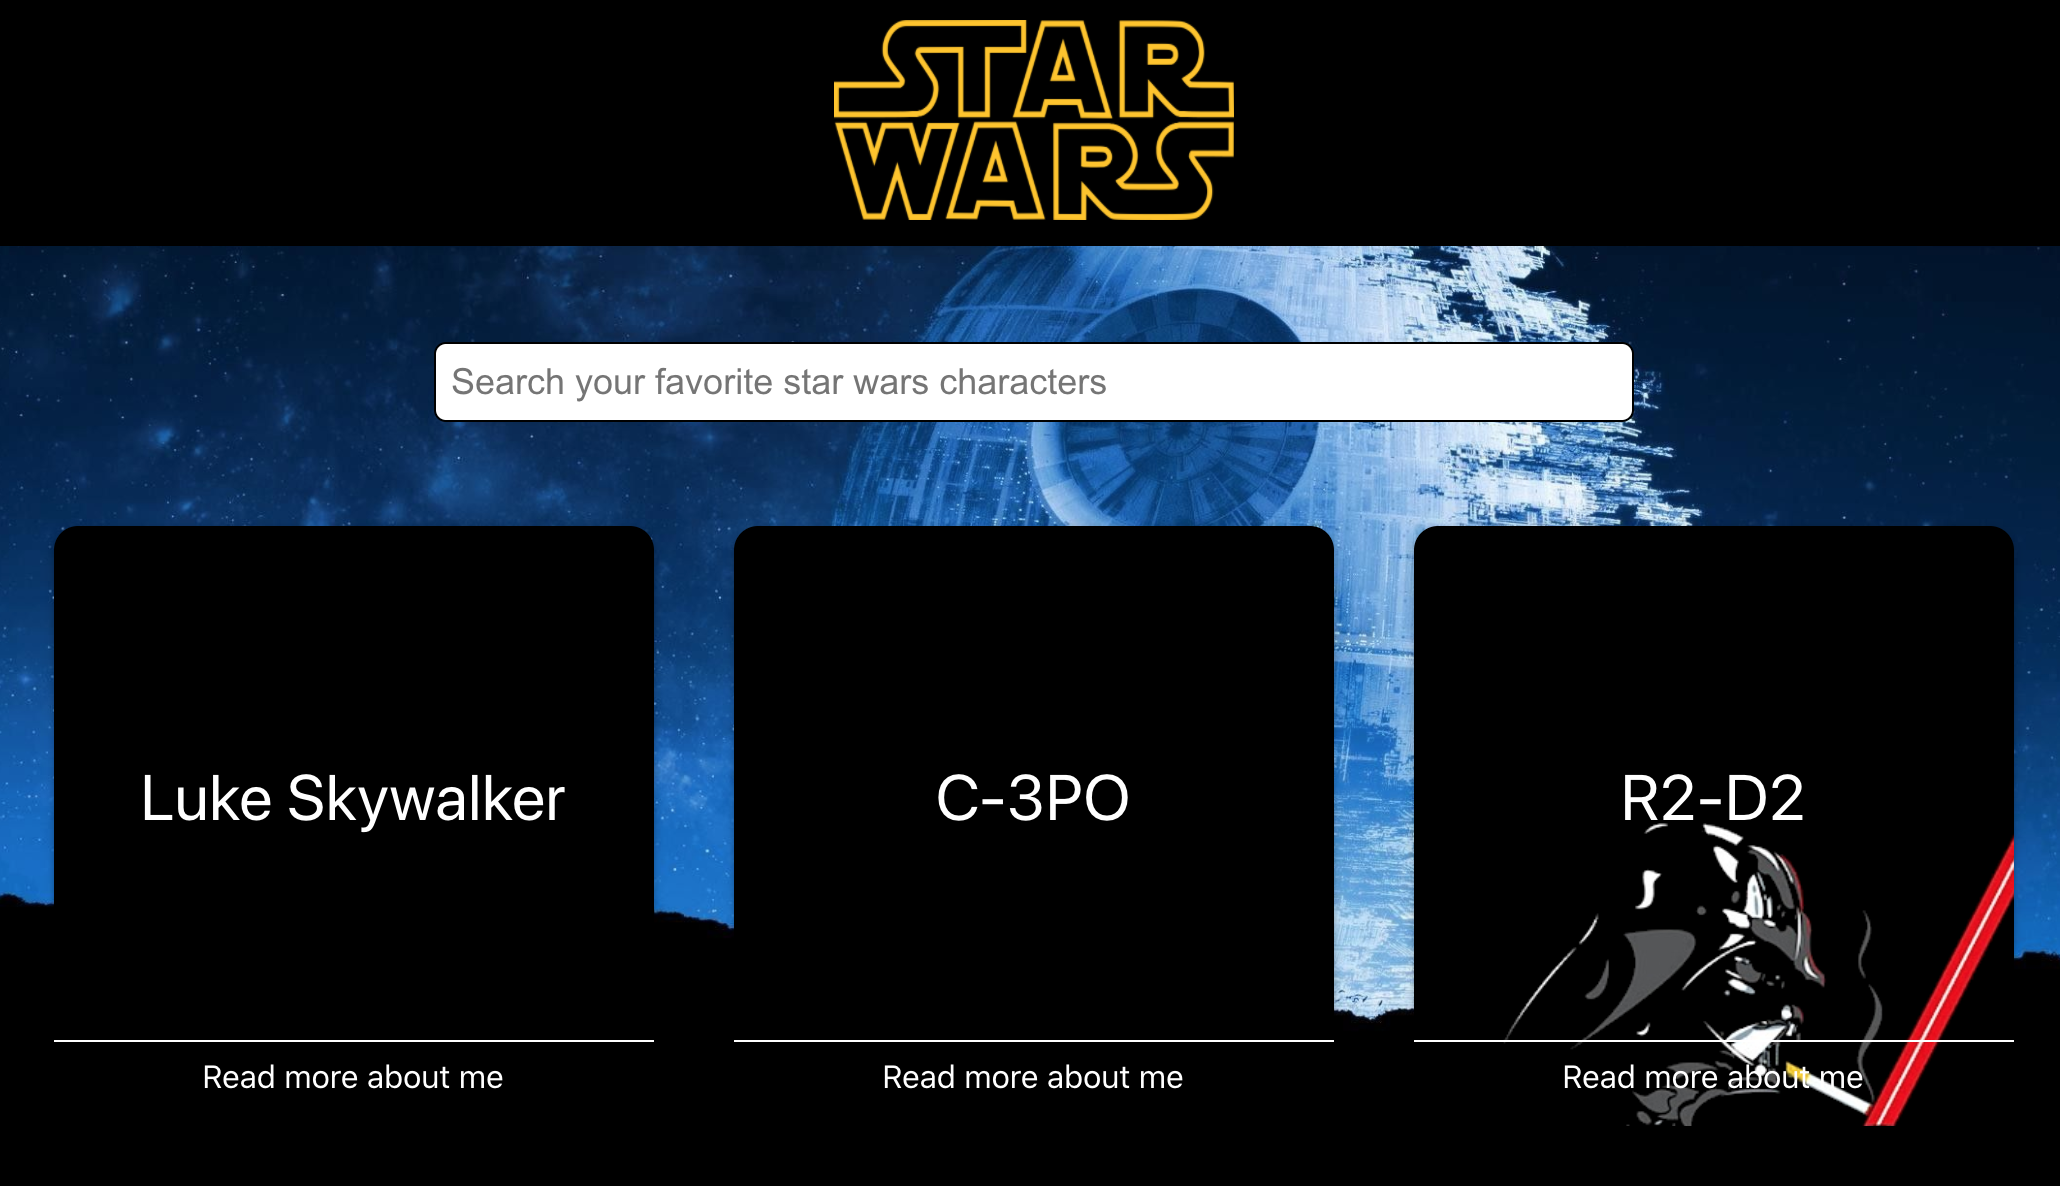
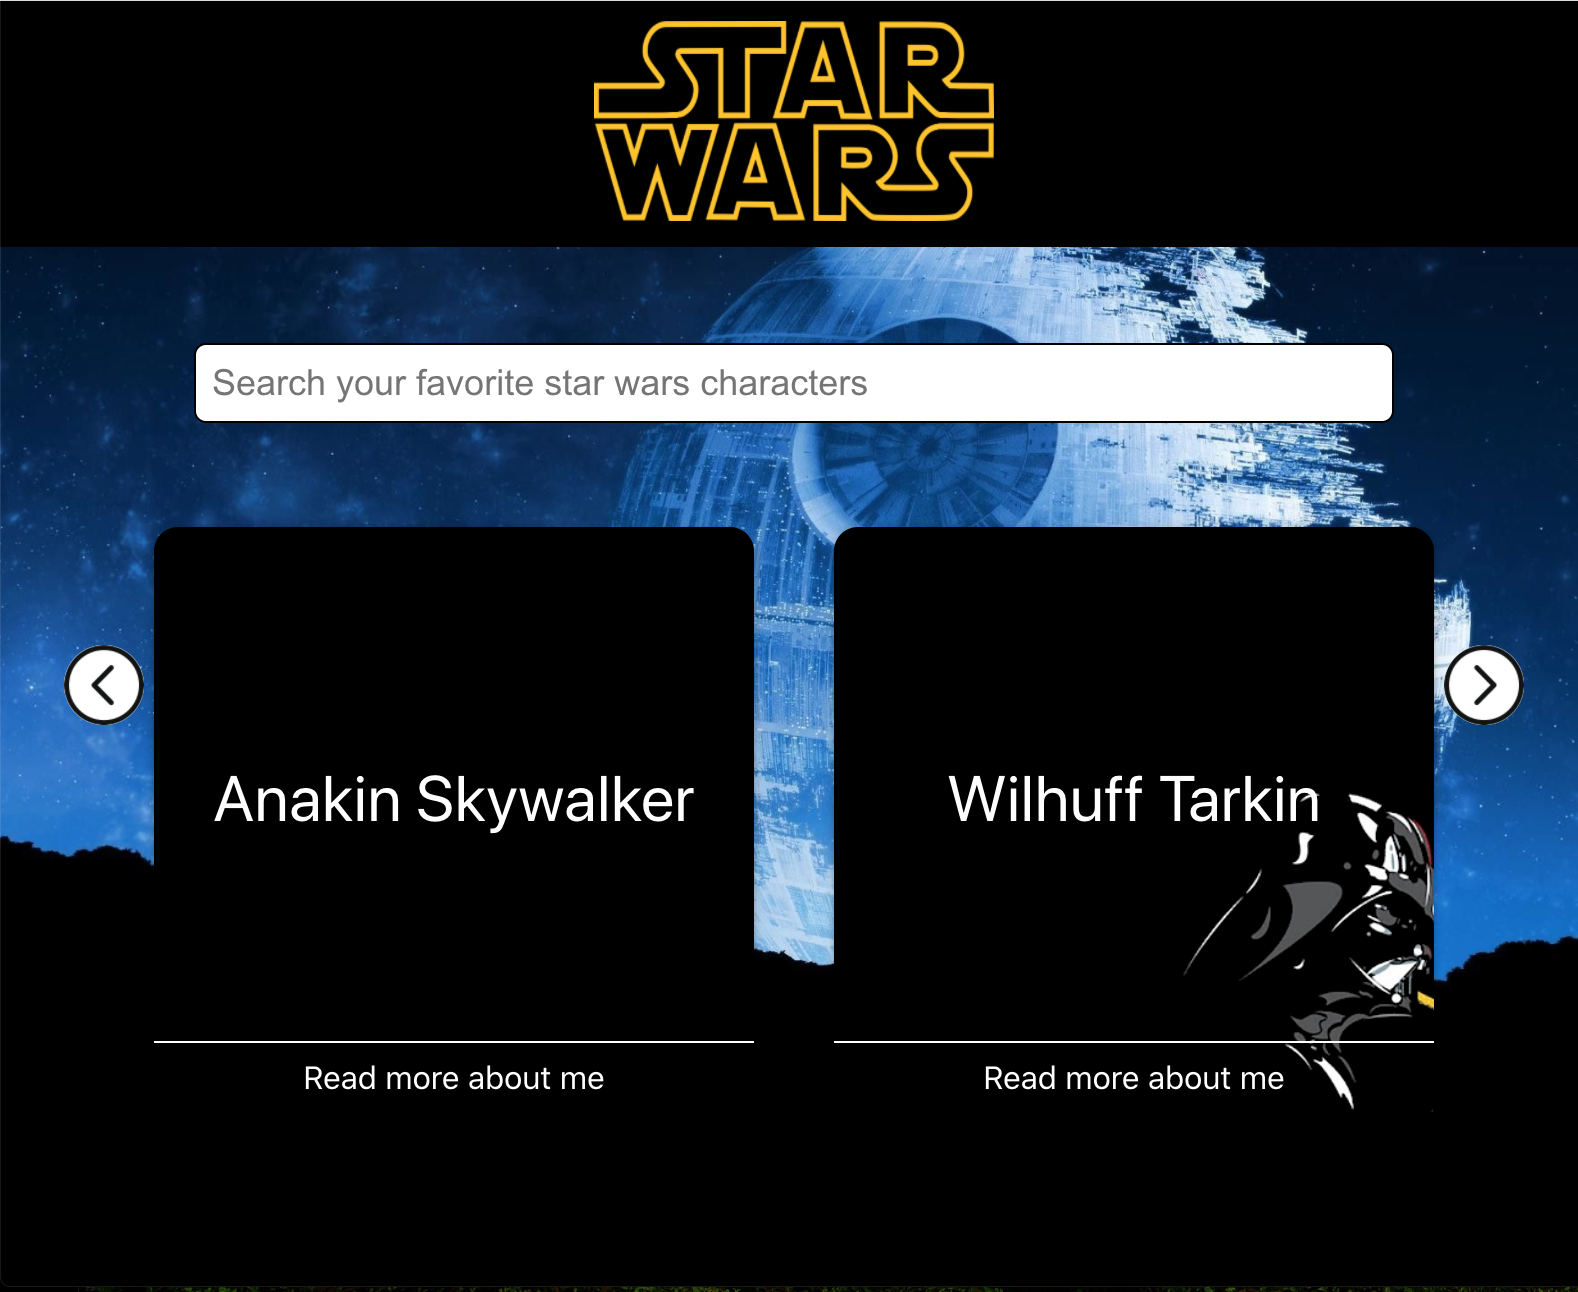
Improvements to portfolio design

diff --git a/src/components/Work/Work.js b/src/components/Work/Work.js
@@ -14,6 +14,9 @@ function Work() {
   return (
     <WorkWrapper>
       <Project>
+        <ProjectImg>
+          <img src="images/starwars_swapi2.png" alt="starwars_SWAPI" />
+        </ProjectImg>
         <Content>
           <ProjectTitle>Starwars character search</ProjectTitle>
           <Description>
@@ -32,11 +35,11 @@ function Work() {
             Link to app &#10132;
           </Button>
         </Content>
-        <ProjectImg>
-          <img src="images/starwars_SWAPI.png" alt="starwars_SWAPI" />
-        </ProjectImg>
     </Project>
       <Project>
+        <ProjectImg>
+          <img src="images/kyh_page.png" alt="KYH landing page" />
+        </ProjectImg>
         <Content>
           <ProjectTitle>KYH Course Landing Page Redesign</ProjectTitle>
           <Description>
@@ -56,11 +59,11 @@ function Work() {
             Link to site &#10132;
           </Button>
         </Content>
-        <ProjectImg>
-          <img src="images/kyh_page.png" alt="KYH landing page" />
-        </ProjectImg>
       </Project>
       <Project>
+        <ProjectImg>
+          <img src="images/tp_easyweb.png" alt="Easyweb site" />
+        </ProjectImg>
         <Content>
           <ProjectTitle>Easyweb by Sphinxly</ProjectTitle>
           <Description>
@@ -77,11 +80,11 @@ function Work() {
             Link to app &#10132;
           </Button>
         </Content>
-        <ProjectImg>
-          <img src="images/tp_easyweb.png" alt="Easyweb site" />
-        </ProjectImg>
       </Project>
       <Project>
+         <ProjectImg>
+          <img src="images/weather_app.png" alt="Weather app" />
+        </ProjectImg>
         <Content>
           <ProjectTitle>Weather App</ProjectTitle>
           <Description>A simple weather application.</Description>
@@ -93,11 +96,11 @@ function Work() {
             Link to GitHub &#10132;
           </Button>
         </Content>
-        <ProjectImg>
-          <img src="images/weather_app.png" alt="Weather app" />
-        </ProjectImg>
       </Project>
       <Project>
+        <ProjectImg>
+          <img src="images/tp_nutrition.png" alt="Nutrition app" />
+        </ProjectImg>
         <Content>
           <ProjectTitle>B-E-V Nutrition tracker</ProjectTitle>
           <Description>
@@ -109,11 +112,11 @@ function Work() {
             Link to GitHub &#10132;
           </Button>
         </Content>
-        <ProjectImg>
-          <img src="images/tp_nutrition.png" alt="Nutrition app" />
-        </ProjectImg>
       </Project>
       <Project>
+        <ProjectImg>
+          <img src="images/tp_note.png" alt="Note app" />
+        </ProjectImg>
         <Content>
           <ProjectTitle>Quire Note Taking App</ProjectTitle>
           <Description>
@@ -127,12 +130,11 @@ function Work() {
             Link to GitHub &#10132;
           </Button>
         </Content>
-        <ProjectImg>
-          <img src="images/tp_note.png" alt="Note app" />
-        </ProjectImg>
       </Project>
       <Project>
-
+        <ProjectImg>
+          <img src="images/EuBike.png" alt="EU-bikes prototype" />
+        </ProjectImg>
         <Content>
           <ProjectTitle>UX Review for EU-Bikes</ProjectTitle>
           <Description>
@@ -148,9 +150,6 @@ function Work() {
             Link to prototype &#10132;
           </Button>
         </Content>
-        <ProjectImg>
-          <img src="images/EuBike.png" alt="EU-bikes prototype" />
-        </ProjectImg>
       </Project>
    </WorkWrapper>
   );

diff --git a/src/components/Work/WorkStyled.js b/src/components/Work/WorkStyled.js
@@ -2,21 +2,32 @@ import styled from "styled-components";
 
 export const WorkWrapper = styled.div`
   padding: 16px 0;
+  display:flex;
+  flex-wrap: wrap;
+  justify-content: center;
+   @media screen and (max-width: 768px) {
+    padding: 8px;
+  }
 `;
 
 export const Project = styled.div`
-  display: flex;
-  flex-wrap: wrap;
-  margin: 20px 0;
-  padding: 24px 0;
+  // display: flex;
+  // flex-wrap: wrap;
+  width:400px;
+  margin: 32px;
+  background: #edf5fc;
+  padding: 24px;
+  border-radius: 16px;
   &:hover img {
     transform: scale(1.04, 1.04);
   }
   &:hover a {
     color: #008bf8;
   }
-  @media screen and (max-width: 800px) {
-    padding: 20px 0;
+  @media screen and (max-width: 768px) {
+    padding:16px;
+    width:100%;
+    margin:16px 0;
   }
 `;
 
@@ -32,9 +43,7 @@ export const Button = styled.a`
 
 export const Content = styled.div`
   font-size: 18px;
-  padding-bottom: 16px;
-  width: 260px;
-  margin-right: 200px;
+  padding: 16px 0;
 
   @media screen and (max-width: 800px) {
     width: 100%;
@@ -48,11 +57,8 @@ export const ProjectTitle = styled.h3`
 `;
 
 export const ProjectImg = styled.div`
-  width: 500px;
-  height: 400px;
-  background: #edf5fc;
   border-radius: 6px;
-  padding: 48px 120px;
+  // padding: 48px 120px;
   & img {
     width: 100%;
     height: 100%;
@@ -61,7 +67,6 @@ export const ProjectImg = styled.div`
   }
   @media screen and (max-width: 800px) {
     width: 100%;
-    height: 300px;
     margin: 0;
     padding: 0;
   }

diff --git a/src/index.css b/src/index.css
@@ -1,13 +1,17 @@
 body {
   margin: 0;
-  font-family: -apple-system, BlinkMacSystemFont, 'Segoe UI', 'Roboto', 'Oxygen',
-    'Ubuntu', 'Cantarell', 'Fira Sans', 'Droid Sans', 'Helvetica Neue',
+  font-family: -apple-system, BlinkMacSystemFont, "Segoe UI", "Roboto", "Oxygen",
+    "Ubuntu", "Cantarell", "Fira Sans", "Droid Sans", "Helvetica Neue",
     sans-serif;
+  font-family: Quicksand, "Helvetica", "Apple Color Emoji", "Segoe UI Emoji",
+    NotoColorEmoji, "Noto Color Emoji", "Segoe UI Symbol", "Android Emoji",
+    EmojiSymbols, -apple-system, "BlinkMacSystemFont", "Segoe UI", "Roboto",
+    "Helvetica Neue", "Noto Sans", sans-serif;
   -webkit-font-smoothing: antialiased;
   -moz-osx-font-smoothing: grayscale;
 }
 
 code {
-  font-family: source-code-pro, Menlo, Monaco, Consolas, 'Courier New',
+  font-family: source-code-pro, Menlo, Monaco, Consolas, "Courier New",
     monospace;
 }

diff --git a/src/components/PersonalInfo/PersonalInfoStyled.js b/src/components/PersonalInfo/PersonalInfoStyled.js
@@ -1,14 +1,20 @@
 import styled from "styled-components";
 
 export const PersonalInfoWrapper = styled.div`
-  padding: 20px;
-  margin: 0 auto;
-  max-width: 400px;
-  text-align: center;
+    padding: 150px;
+    margin: 0 auto;
+    background-color: #100772;
+    text-align: center;
+    color: #fff;  
+    @media screen and (max-width: 768px) {
+      padding:32px 24px;
+  }
 `;
 
 export const Title = styled.h1`
-  margin: 8px;
+  margin: 8px auto;
+  max-width: 500px;
+  
 `;
 
 export const Image = styled.div`
@@ -19,7 +25,7 @@ export const Image = styled.div`
 `;
 export const Link = styled.a`
   text-decoration: none;
-  color: #000;
+  color: #fff;
   font-size: 12px;
   margin: 16px  16px 0 0 ;
   &:hover {

diff --git a/src/components/PersonalInfo/PersonalInfo.js b/src/components/PersonalInfo/PersonalInfo.js
@@ -7,7 +7,7 @@ function PersonalInfo() {
       <Image>
         <img src="/images/profile_rnd.png" alt="Profile" />
       </Image>
-      <Title>MUHAMMAD USMAN</Title>
+      <Title>Hi, I am Muhammad Usman, a frontend developer with a passion for UX and clean code</Title>
       <Link
         href="https://www.linkedin.com/in/muhammad-usman-78491149/"
         target="_blank"

diff --git a/public/index.html b/public/index.html
@@ -8,6 +8,7 @@
       name="description"
       content="Web site created using create-react-app"
     />
+    <link href="https://fonts.googleapis.com/css2?family=Quicksand:wght@500;600&display=swap" rel="stylesheet">
     <link rel="apple-touch-icon" href="%PUBLIC_URL%/favicon.png" />
     <!--
       manifest.json provides metadata used when your web app is installed on a

diff --git a/src/App.js b/src/App.js
@@ -6,9 +6,9 @@ import Contact from "./components/Contact/Contact";
 import "./App.css";
 
 const Wrapper = styled.section`
-  padding: 16px;
-  margin: 0 auto;
-  max-width: 1200px;
+  // padding: 16px;
+  // margin: 0 auto;
+  // max-width: 1200px;
 `;
 
 function App() {
